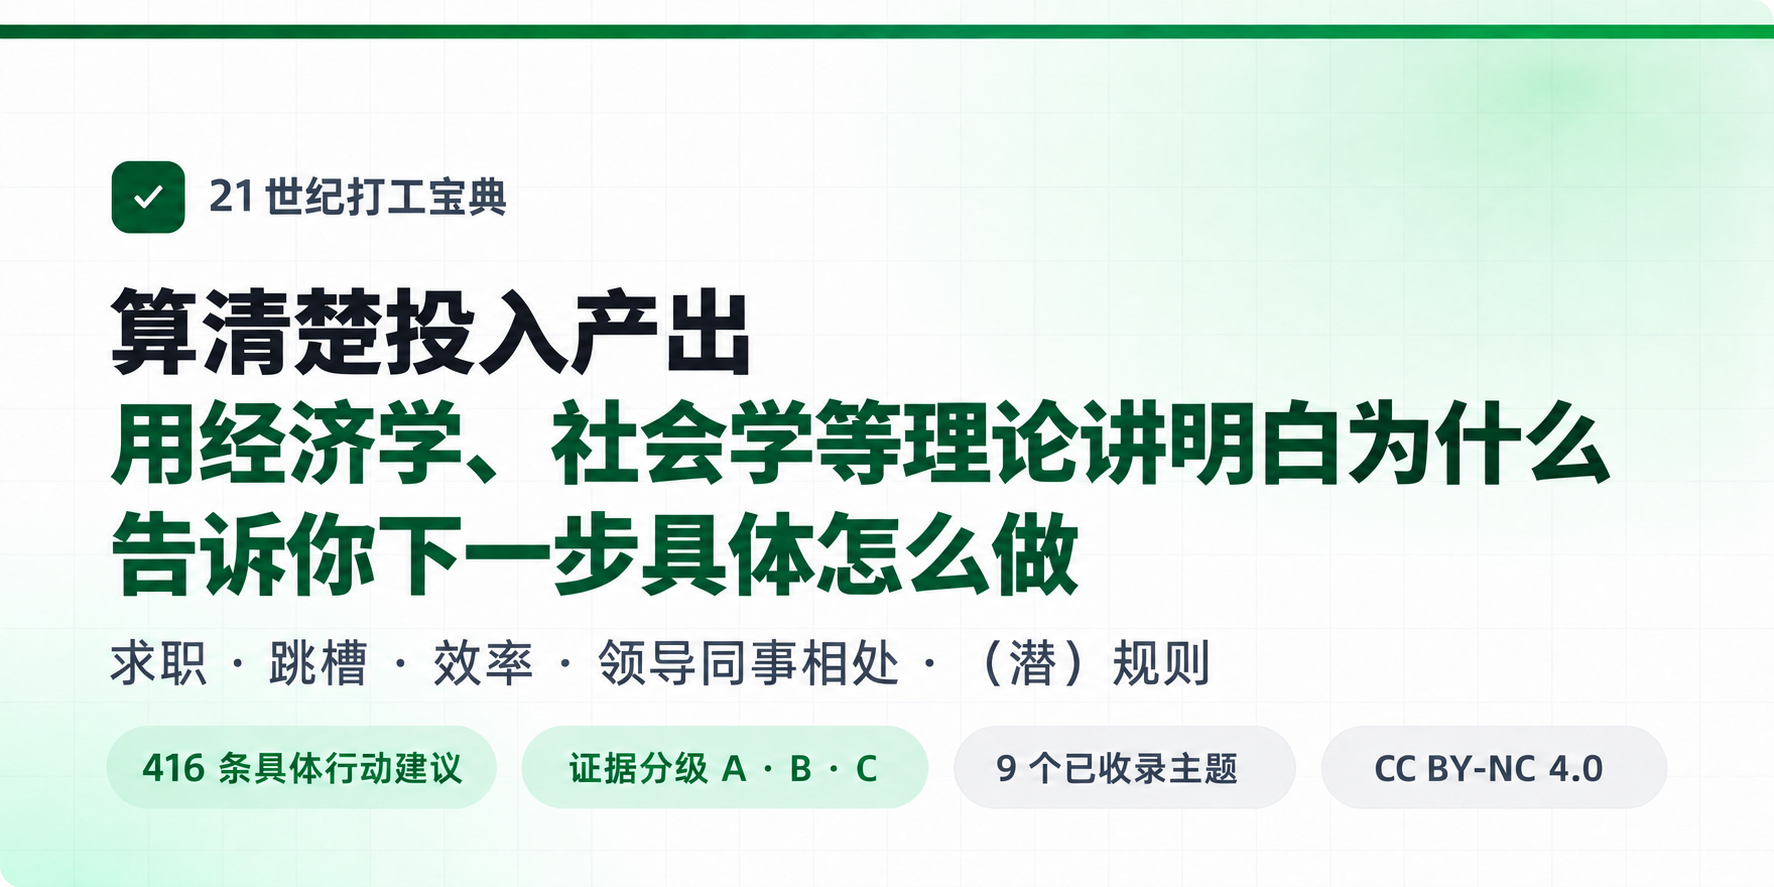
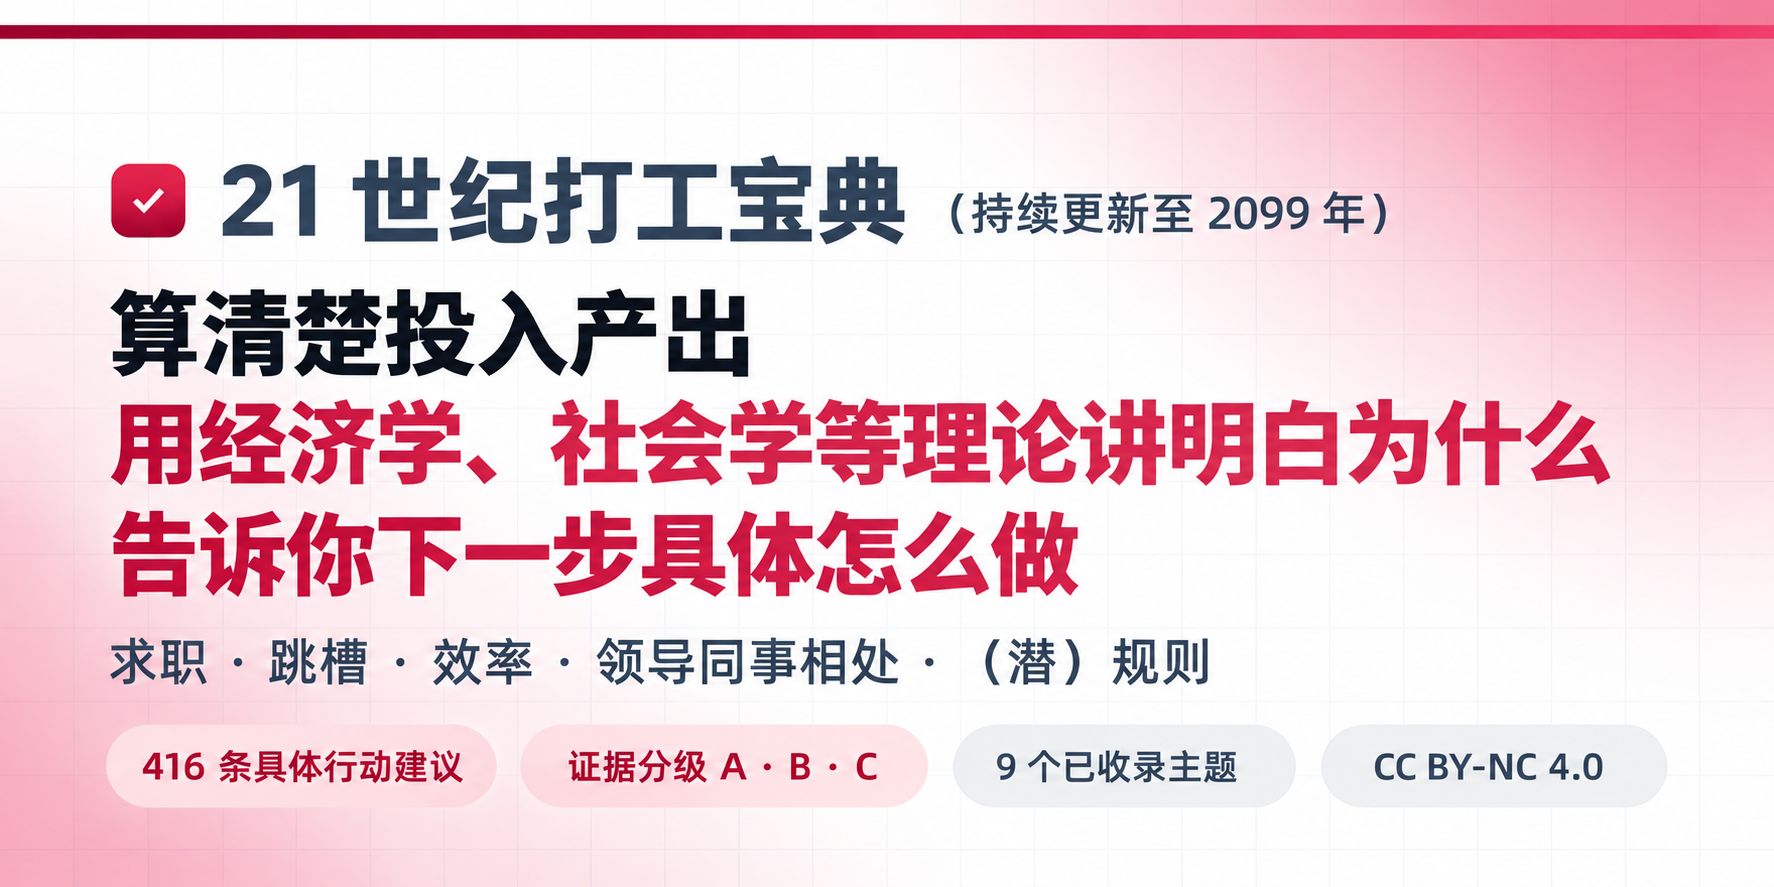
更新绯红渐变横幅并说明不评级条目
放大项目名称并添加持续更新说明，删除补充长文规划。
补充19条不评级内容的分类与统计口径，网页筛选改为不评级。

diff --git a/README.md b/README.md
@@ -1,5 +1,5 @@
 <p align="center">
-  <img src="banner.png" alt="21 世纪打工宝典：算清楚投入产出，用经济学、社会学等理论讲明白为什么，告诉你下一步具体怎么做。" width="820">
+  <img src="banner.png" alt="21 世纪打工宝典（持续更新至 2099 年）：算清楚投入产出，用经济学、社会学等理论讲明白为什么，告诉你下一步具体怎么做。" width="820">
 </p>
 
 # 21 世纪打工宝典
@@ -23,11 +23,11 @@
 
 第一稿已收录 416 条具体行动建议，包括书前的选择方法，以及毕业选路、技能与证书、岗位筛选、Offer 比较、入职和试用期、下班时间、领导相处、同事相处八个主题。
 
-全书规划为 21 节正文及补充长文。以下目录包含尚未收录的章节。条目编号暂时沿用第一稿，与规划章节编号分别保留。
+全书规划为 21 节正文。以下目录包含尚未收录的章节。条目编号暂时沿用第一稿，与规划章节编号分别保留。
 
 ### 统计口径
 
-数字按当前第一稿统计：416 条，A 153 条、B 245 条，18 条的等级栏为“／”。等级沿用原稿标记，不代表发布工具已逐条复核证据。来源链接共 395 处，包含重复链接、官方摘要等，不等于 395 篇独立原始文献。
+数字按当前第一稿统计：416 条，A 153 条、B 245 条，18 条编号条目的等级栏为“／”；另有 1 条不评级的未编号命题位于书前章节说明中，正文合计 19 条不评级。等级沿用原稿标记，不代表发布工具已逐条复核证据。来源链接共 395 处，包含重复链接、官方摘要等，不等于 395 篇独立原始文献。
 
 ## 这本书想回答的问题
 
@@ -78,17 +78,28 @@
 
 条目中的等级需要结合具体来源和说明阅读，不能只凭一个等级判断整条建议都已得到验证。
 
-## 补充长文规划
+### “／”为什么不评级
 
-- Offer 到手怎么判断去不去。
-- 被叫去谈离职当天做什么。
-- 被裁了之后先做什么。
-- 裸辞前先算什么。
-- 怀孕生产前后要办的事。
+等级栏里的“／”表示不评级。这 19 条不是用来判断“做了是否有效”的方法，而是个人偏好、规范或概念区分，因此不适合用 A、B、C 衡量“值不值得做”。这里的 A、B、C 沿用原稿的建议采用等级：A 优先采用，B 按需尝试，C 暂不推荐。
+
+**第一类：个人偏好或价值排序，原文明写“不评级”，共 4 条。**
+
+- **没有统一的对错：** 比如要不要重视长远得失、休息一天还是继续推进、要不要对公共事件表态、对穿着和爱好类评价要不要在意。
+- **没有标准答案：** 研究不能替所有人决定唯一答案，选哪边取决于本人的偏好和价值排序。
+
+**第二类：规范或概念类，原文写“成立”，共 15 条。**
+
+- **诚实、真实性的规范：** 比如不编造认识的理由、不虚报 Offer、借熟人名字前先问本人。这些是在判断表达是否真实、是否尊重本人意愿，不能只凭有没有效果来衡量。
+- **区分概念：** 比如事实和对事实的解释是两件事，身份和命题真假不是一回事。
+- **限定范围的规范：** 比如按已确认权限行事、职责明确时不替负责人做决定。
+
+“成立”指这里的规范或概念判断成立，并不表示照做就能保证涨薪、改善关系或得到其他结果。“／”也不表示漏填或低于 C。
+
+正文中的 19 条不评级内容包括 18 条编号条目和 1 条书前的未编号命题。网页筛选中的“不评级”对应这 18 条编号条目；未编号命题可在“阅读说明与版本”里的书前章节说明中阅读。
 
 ## 阅读与下载
 
-- [网页阅读](https://lingyu9a0.github.io/HowToWorkBetter/)：支持搜索、主题筛选和证据等级筛选。
+- [网页阅读](https://lingyu9a0.github.io/HowToWorkBetter/)：支持搜索、主题筛选和等级筛选。
 - [下载 PDF](https://github.com/lingyu9a0/HowToWorkBetter/releases/download/book-latest/HowToWorkBetter.pdf)：适合电脑阅读和打印。
 - [下载 EPUB](https://github.com/lingyu9a0/HowToWorkBetter/releases/download/book-latest/HowToWorkBetter.epub)：适合电子书阅读器。
 - [下载离线 HTML](https://github.com/lingyu9a0/HowToWorkBetter/releases/download/book-latest/HowToWorkBetter.html)：保存后可在浏览器里离线阅读。
